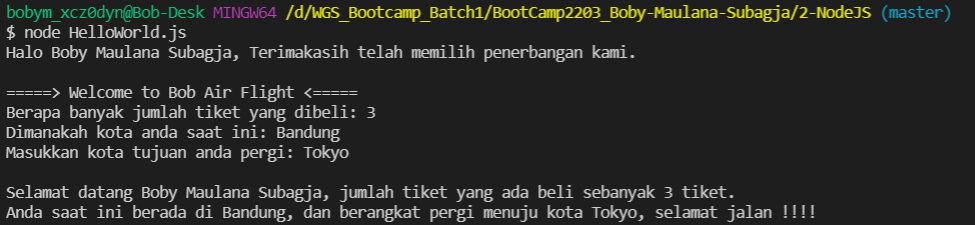
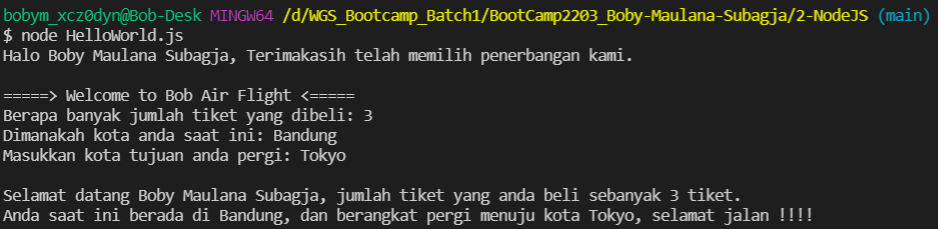
Menambahkan Tampilan Output Program

Changed region(s): [[0.0, 0.8089, 0.8657, 0.9956], [0.0, 0.0311, 1.0, 0.28], [0.0, 0.3733, 0.4019, 0.7156]]

diff --git a/2-NodeJS/HelloWorld.js b/2-NodeJS/HelloWorld.js
@@ -17,7 +17,7 @@ pertanyaan.question('Berapa banyak jumlah tiket yang dibeli: ', (tiket) => {
     pertanyaan.question('Dimanakah kota anda saat ini: ', (alamat) => {
         pertanyaan.question('Masukkan kota tujuan anda pergi: ', (tujuan) => {
             console.log();
-            console.log(`Selamat datang ${nama}, jumlah tiket yang ada beli sebanyak ${tiket} tiket.`);
+            console.log(`Selamat datang ${nama}, jumlah tiket yang anda beli sebanyak ${tiket} tiket.`);
             console.log(`Anda saat ini berada di ${alamat}, dan berangkat pergi menuju kota ${tujuan}, selamat jalan !!!!`);
             pertanyaan.close();
         });
